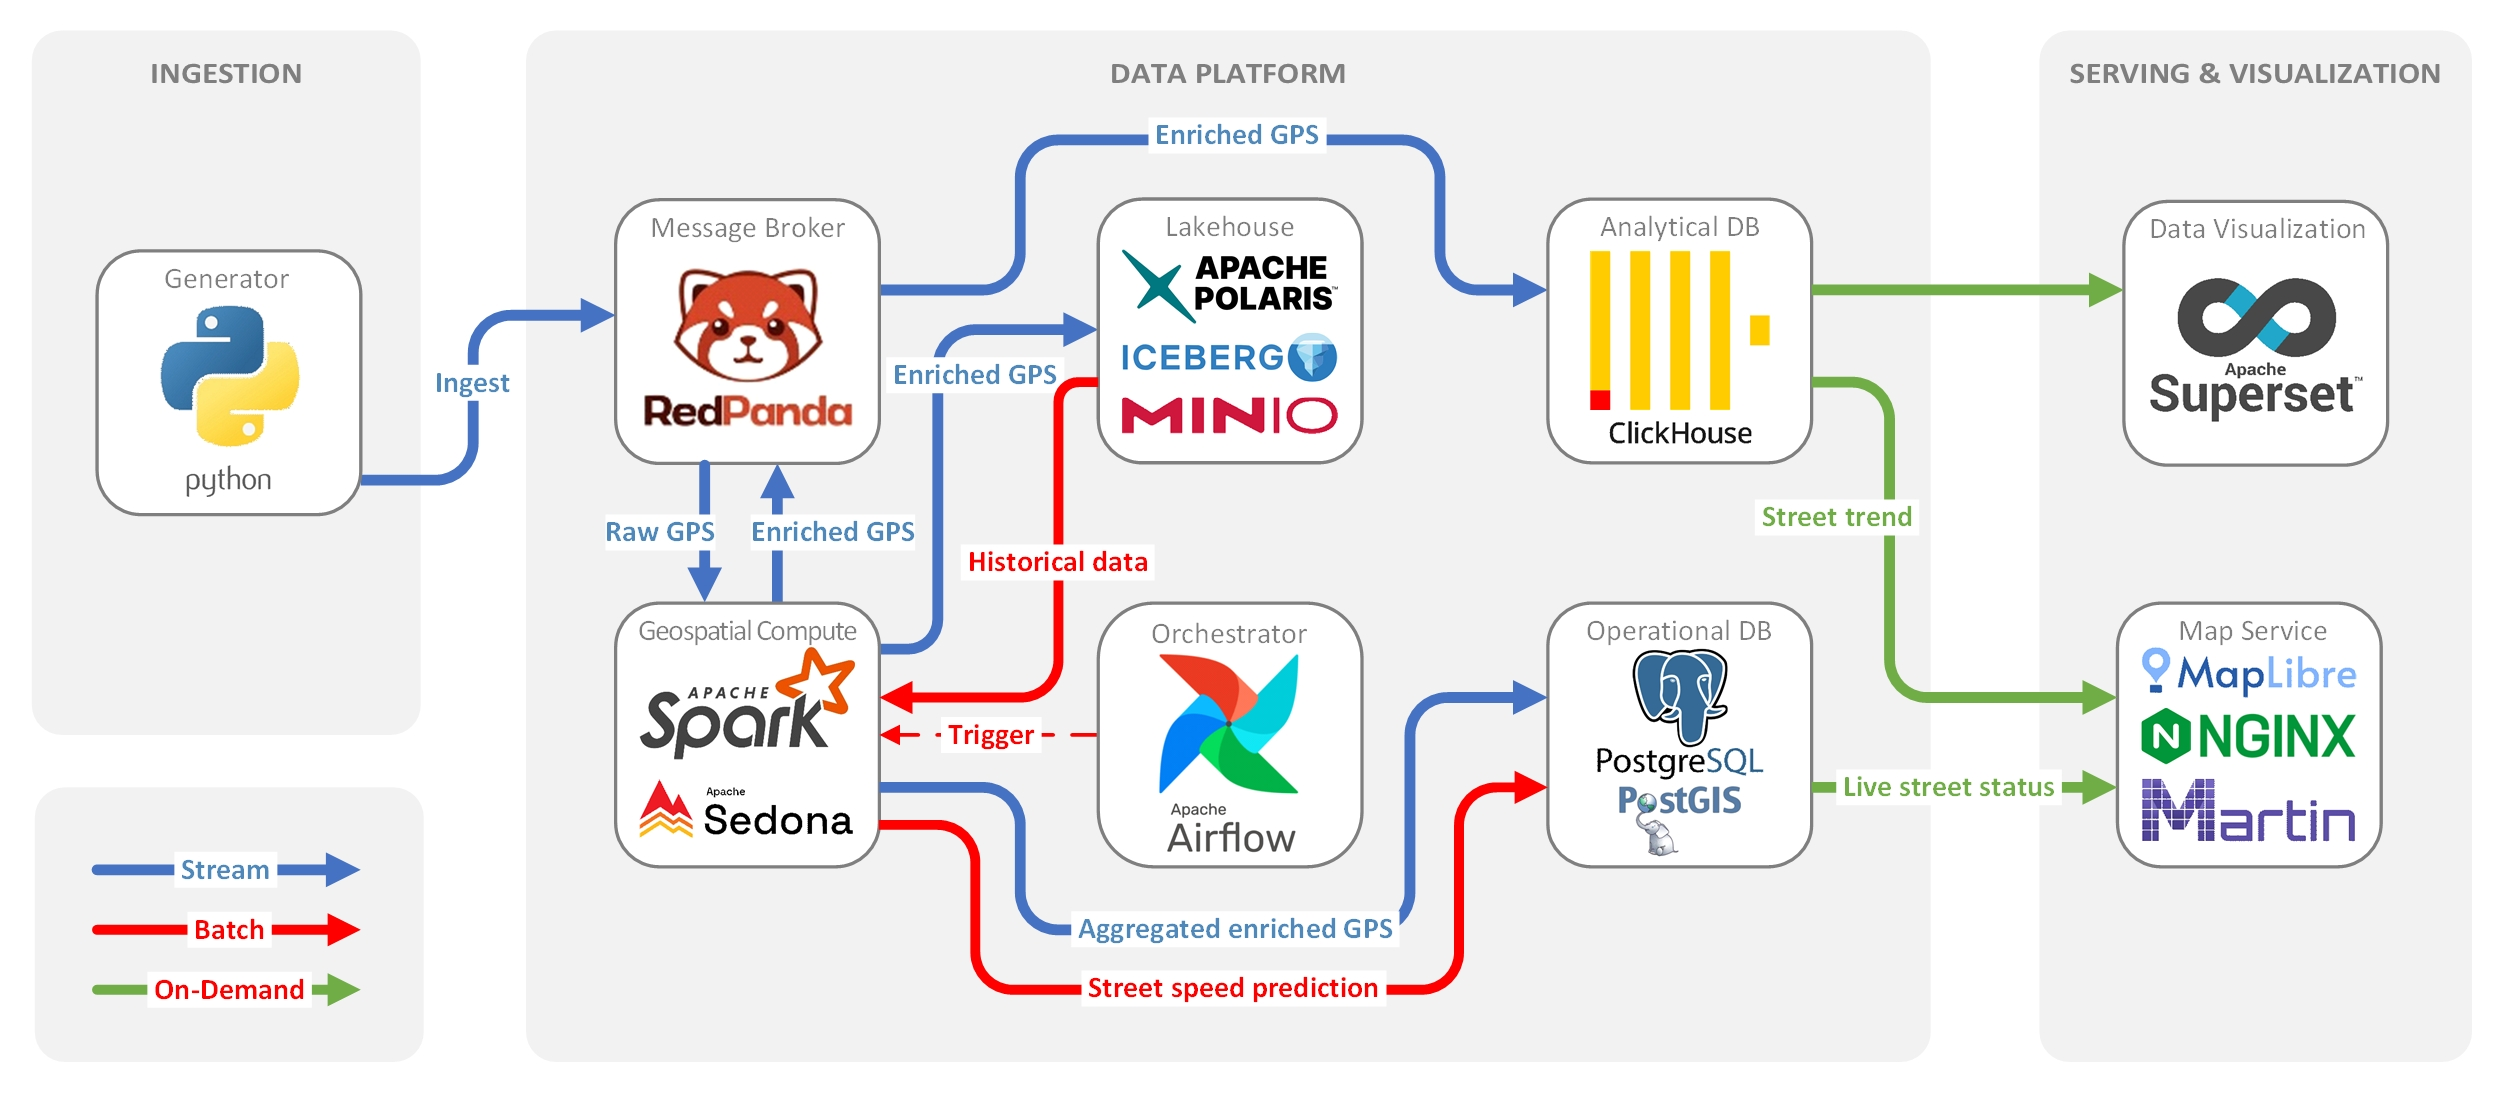
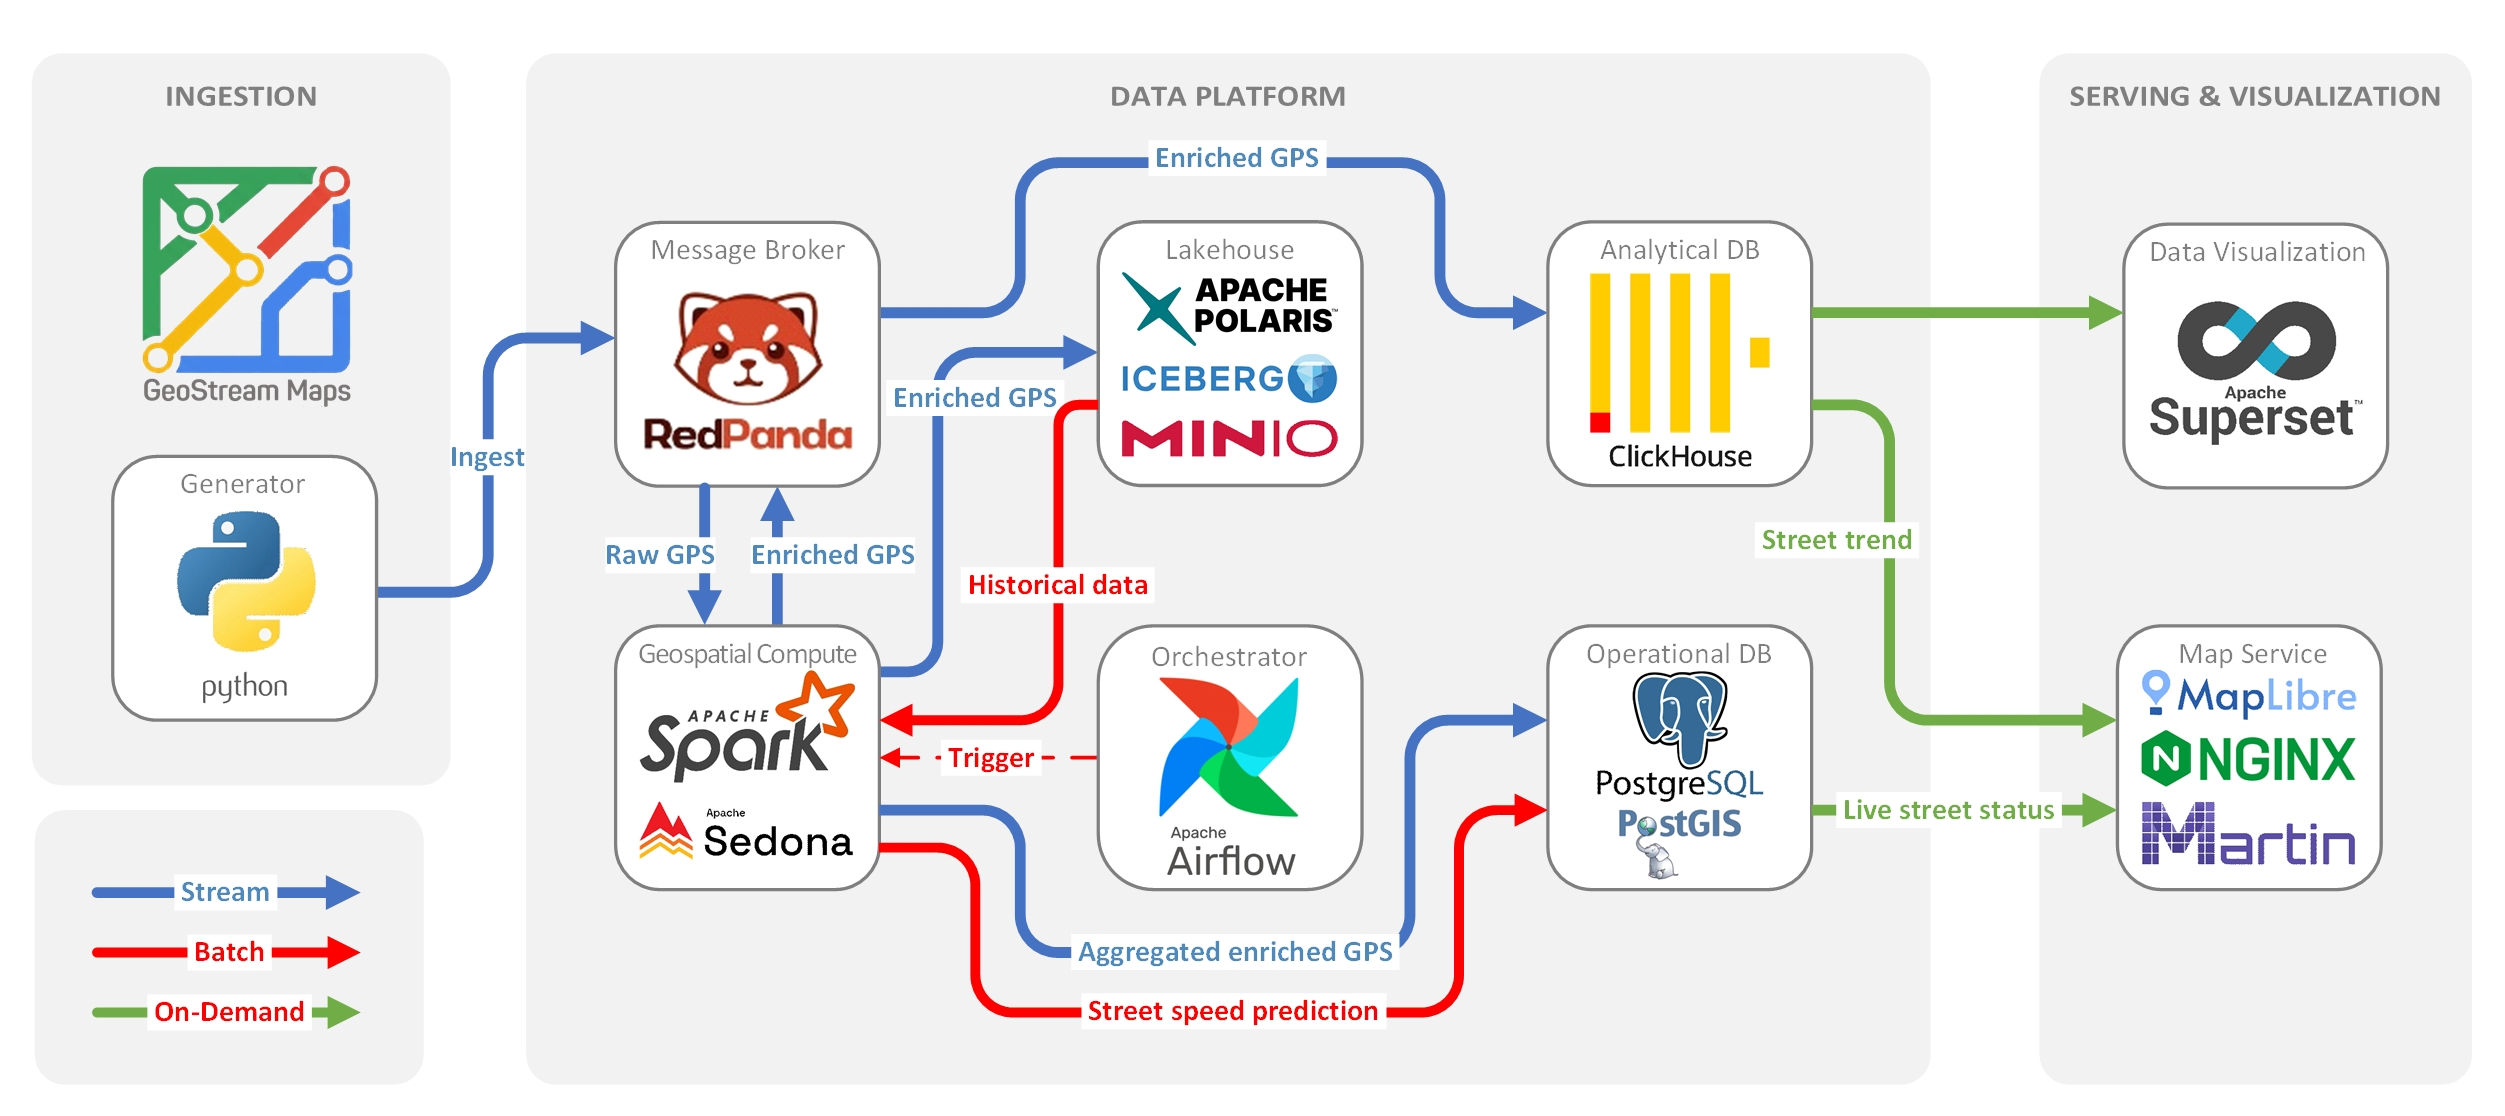
cleanup-readme

diff --git a/README.md b/README.md
@@ -1,38 +1,47 @@
-![GeoStream Maps logo](assets/logo.png)
+<p align="center">
+    <img src="assets/logo.png" alt="GeoStream Maps logo" width="231">
+</p>
+
 ## GeoStream Maps — A real-time data-driven platform for traffic monitoring
 
 A simulator of map and real-time traffic services (similar to Google Maps) displaying live street traffic conditions on a map. Built as the final project of the data engineering course in Sepahram School of Data Engineering. 
 
 ### Data Engineering Stack
 
-| Component   | Role  |
-| ----------- | ------ |
-| **Postgres + PostGIS** | Operational database. Stores geometry, current speed, current predicted speed, current color on the map for each street. |
-| **Redpanda** | Real-time data broker. |
-| **Spark + Sedona** | Maps GPS pings to streets, flags inaccurate ones, publishes enriched events to Redpanda, and hosts the standalone master/worker for Airflow jobs. |
-| **ClickHouse** | Analytical database. Recent speed history per street (shown on click). Receives live data directly from Redpanda. |
-| **Lakehouse (MinIO + Polaris + Iceberg)** | Storage for immutable events. Serves the job for forcasting the baseline speed for each street. |
-| **Airflow** | Submits the five-minute street-speed prediction job to Sedona with `SparkSubmitOperator` every two minutes. |
-| **Apache Superset** | Business Intelligence dashboards. |
-| **Python** | Generates the live GPS stream (coordinates + speed of users); runs as the compose service `generator`. |
+| Component     | Role    |
+| -------------- | ------------ |
+| **Postgres + PostGIS**                    | Operational database. Stores geometry, current speed, current predicted speed, current color on the map for each street.                          |
+| **Redpanda**           | Real-time data broker.               |
+| **Spark + Sedona**                        | Maps GPS pings to streets, flags inaccurate ones, publishes enriched events to Redpanda, and hosts the standalone master/worker for Airflow jobs. |
+| **ClickHouse**                            | Analytical database. Recent speed history per street (shown on click). Receives live data directly from Redpanda.                                 |
+| **Lakehouse (MinIO + Polaris + Iceberg)** | Storage for immutable events. Serves the job for forcasting the baseline speed for each street.                                                   |
+| **Airflow**                               | Submits the five-minute street-speed prediction job to Sedona with `SparkSubmitOperator` every two minutes.                                       |
+| **Apache Superset**                       | Business Intelligence dashboards.                                                                                                                 |
+| **Python**                                | Generates the live GPS stream (coordinates + speed of users); runs as the compose service `generator`.                                            |
 
 ### Web interfaces
 
-| Interface            | Local URL                     |
-| --------------------- | ----------------------------- |
-| Map                  | [http://localhost:8080](http://localhost:8080) |
-| Redpanda Console     | [http://localhost:9300](http://localhost:9300) |
-| Airflow              | [http://localhost:8081](http://localhost:8081) |
-| Superset | [http://localhost:8088](http://localhost:8088) |
+<div align="center">
+
+| Interface          | Local URL                                      |
+| ------------------ | ---------------------------------------------- |
+| Map                | [http://localhost:8080](http://localhost:8080) |
+| Redpanda Console   | [http://localhost:9300](http://localhost:9300) |
+| Airflow            | [http://localhost:8081](http://localhost:8081) |
+| Superset           | [http://localhost:8088](http://localhost:8088) |
 | Spark streaming UI | [http://localhost:4040](http://localhost:4040) |
 | Spark lakehouse UI | [http://localhost:4041](http://localhost:4041) |
-| Spark Connect UI | [http://localhost:4042](http://localhost:4042) |
-| Spark master UI | [http://localhost:7079](http://localhost:7079) |
-| Spark worker UI | [http://localhost:7080](http://localhost:7080) |
+| Spark Connect UI   | [http://localhost:4042](http://localhost:4042) |
+| Spark master UI    | [http://localhost:7079](http://localhost:7079) |
+| Spark worker UI    | [http://localhost:7080](http://localhost:7080) |
+
+</div>
 
 ### Data flow
 
-![dataflow](assets/dataflow.jpg)
+<p align="center">
+    <img src="assets/dataflow.jpg" alt="Data flow">
+</p>
 
 ### UI Stack
 
